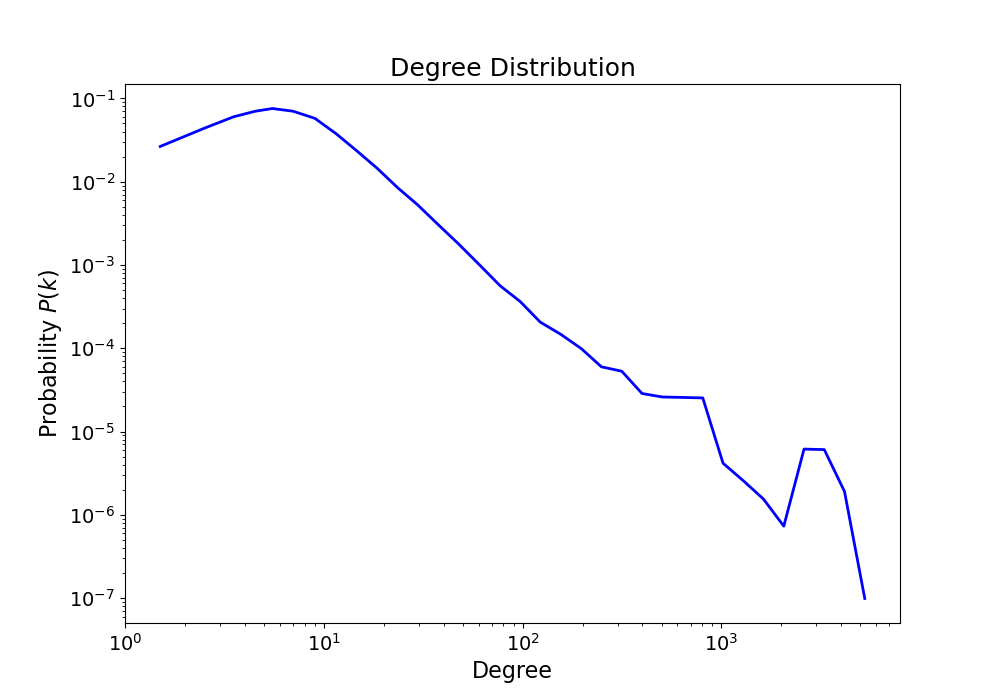
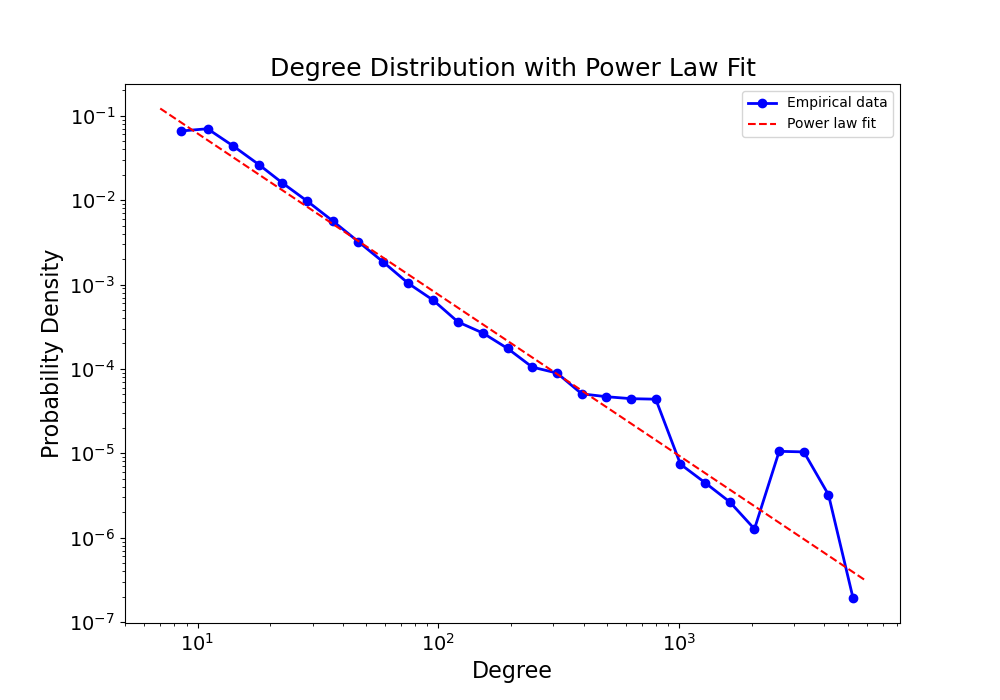
added degree distribution analysis

diff --git a/plots.py b/plots.py
@@ -4,7 +4,7 @@ import matplotlib.pyplot as plt
 import json
 import os
 import powerlaw
-from collections import Counter
+from tqdm import tqdm
 
 # Read the data
 
@@ -41,59 +41,96 @@ plt.ylabel('Number of Articles and Authors')
 plt.title('Number of Articles per Year')
 plt.savefig('images/number_of_articles_per_year.png')
 
-#Read data for degree distribution
+#-----------------------------------------------------------------------------------------------
 
+# Read data for degree distribution
 degree_sequence = np.load('./results/degree_sequence.npy')
 
-#Removing the zeros
+# Removing the zeros
 degree_sequence = degree_sequence[degree_sequence != 0]
 
-# Computing the degree probability mass function
-
-pwl_distri = powerlaw.pdf(degree_sequence)
-
-# Plotting the degree distribution
-
-plt.figure(figsize=(10, 7))
-plt.yscale('log')
-plt.xscale('log')
-
-powerlaw.plot_pdf(degree_sequence, color='b', linewidth=2)
-plt.xticks(fontsize=14)
-plt.yticks(fontsize=14)
-
-plt.xlabel('Degree', fontsize=16)
-plt.ylabel('Probability $P(k)$', fontsize=16)
-plt.title('Degree Distribution', fontsize=18)
-
-plt.savefig('./images/degree_distribution.png')
-
 # Fit function
-
 fit_function = powerlaw.Fit(degree_sequence, discrete=True)
-xmin = fit_function.power_law.xmin # minimum value to fit
-alpha = fit_function.power_law.alpha # exponent
-sigma = fit_function.power_law.sigma # standard deviation of alpha
-D = fit_function.power_law.D # Kolmogorov-Smirnov statistic (good fit if D is small)
+xmin = fit_function.power_law.xmin  # minimum value to fit
+alpha = fit_function.power_law.alpha  # exponent
+sigma = fit_function.power_law.sigma  # standard deviation of alpha
+D = fit_function.power_law.D  # Kolmogorov-Smirnov statistic (good fit if D is small)
 
-print(f'xmin = {xmin}')
+print('\n', f'xmin = {xmin}')
 print(f'alpha = {alpha}')
 print(f'sigma = {sigma}')
 print(f'D = {D}')
 
-# Visualize distribution and the fit
-
+# Plotting the degree distribution and fit
 plt.figure(figsize=(10, 7))
-fig = powerlaw.plot_pdf([x for x in degree_sequence if x > xmin], 
-                        color='b', linewidth=2, label = 'Empirical data')
-fit_function.power_law.plot_pdf(ax = fig, color='r', linestyle='--',
-                                label = 'Power law fit')
+plt.yscale('log')
+plt.xscale('log')
 
-fig.legend(fontsize=16)
+# Plotting the empirical data with both line and points
+data = [x for x in degree_sequence if x > xmin]
+fig = powerlaw.plot_pdf(data, color='b', marker='o', linewidth=2, label='Empirical data')
+
+# Plotting the fit of the power law
+fit_function.power_law.plot_pdf(ax=fig, color='r', linestyle='--', label='Power law fit')
+
 plt.xticks(fontsize=14)
 plt.yticks(fontsize=14)
-plt.xlabel('Degree ($k$)', fontsize=16)
-plt.ylabel('Probability $P(k)$', fontsize=16)
-plt.title('Degree Distribution', fontsize=18)
-plt.savefig('./images/degree_distribution_fit.png')
+plt.xlabel('Degree', fontsize=16)
+plt.ylabel('Probability Density', fontsize=16)
+plt.title('Degree Distribution with Power Law Fit', fontsize=18)
+plt.legend()
 
+plt.savefig('./images/degree_distribution.png')
+
+# Calculate n_tail and n
+n_tail = np.sum(degree_sequence >= xmin)
+n = len(degree_sequence)
+head_data = degree_sequence[degree_sequence < xmin]
+
+# Number of datasets to generate
+num_datasets = 100
+
+# List to store the D values
+D_values = []
+
+# Generate datasets with specified probability distribution
+for _ in tqdm(range(num_datasets), desc="Generating datasets", unit="dataset"):
+    generated_data_tail = fit_function.power_law.generate_random(n_tail, estimate_discrete=True)
+    generated_data_head = np.random.choice(head_data, n - n_tail)
+    generated_data = np.concatenate((generated_data_tail, generated_data_head))
+    generated_data_fit = powerlaw.Fit(generated_data, discrete=True)
+    D_value = generated_data_fit.power_law.D
+    #x_min = generated_data_fit.power_law.xmin
+    D_values.append(D_value)
+
+# Calculate the p-value
+
+p_value = np.sum(D_values >= D) / num_datasets
+print(p_value)
+
+# Plot the D values distribution
+
+plt.figure(figsize=(10, 7))
+plt.hist(D_values, bins=50)
+plt.xlabel('D value', fontsize=16)
+plt.ylabel('Frequency', fontsize=16)
+plt.title('D values distribution', fontsize=18)
+plt.savefig('./images/D_values_distribution.png')
+
+
+# Ho un paio di dubbi: 
+# 1. Probabilmente sarebbe utile mettere un xmax quando si generano i dati ma, leggendo la documentazione di 
+# powerlaw, ho visto che non c'è un modo banale per farlo con powerlaw.generate_random (c'è proprio scritto
+# 'If xmax is present, it is currently ignored'). Non so se ha senso perderci tempo, magari non cambia molto.
+# 
+# 2. Per generare i dati bisognerebbe fare così:
+# - si contanto il numero di elementi della coda (n_tail) e il numero di elementi della testa (n - n_tail) del dataset
+# originale, ovvero il numero di elementi che sono rispettivamente >= xmin e < xmin.
+# - Poi con probabilità p = n_tail / n si genera un elemento dalla power law 'fit_function' (tale che x > x_min) e con 
+# probabilità 1 - p si pesca (secondo una distribuzione uniforme) un elemento dalla testa del dataset originale (tale che x <x_min).
+# - Si ripete questo processo fino a quando non si ottiene un dataset di lunghezza n (lunghezza del dataset originale).
+# Si fa così per ottenere dei dataset che seguono la stessa distribuzione di probabilità del dataset originale.
+# Ho provato a farlo esattamente in quel modo ma ci mette una vita a generare un dataset...
+# Quello che ho fatto io è stato semplicemente generare n_tail elementi dalla power law e n - n_tail elementi dalla testa
+# del dataset originale (tale che x < x_min).
+# Secondo me è uguale ma volevo un attimo ragionarci con te.
